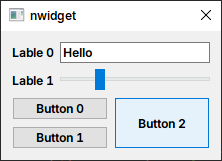
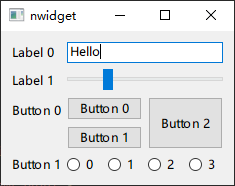
docs: update document

diff --git a/README.md b/README.md
@@ -1,6 +1,6 @@
 # nwidget2
 
-nwidget is a `header-only` library that provides `property binding`, `animation`, `declarative syntax` extension for QWidget.
+nwidget is a `header-only` library that provides `property binding`, `declarative syntax` `animation` extension for QWidget. It is designed based on the principle of low Invasive and can be introduced without modifying existing code.
 
 [How to use](./docs/How-to-use.md)
 
@@ -67,15 +67,19 @@ cond(checkBox.checked(), 300, 50).bindTo(Behavior::animated(rect.minimumWidth())
 
 using namespace nwidget;
 
-QLayout* layout = FormLayout{
-    {"Label 0", LineEdit().text("Hello")},
-    {"Label 1", Slider(Qt::Horizontal).range(0, 100).value(25)},
-    {GridLayout{
+QLayout* layout = FormLayout {
+    {"Label 0" , LineEdit().text("Hello")},
+    {"Label 1" , Slider(Qt::Horizontal).range(0, 100).value(25)},
+    {"Button 0", GridLayout{
         {0, 0,       PushButton("Button 0")},
         {1, 0,       PushButton("Button 1")},
         {0, 1, 2, 1, PushButton("Button 2").sizePolicy(QSizePolicy::Preferred, QSizePolicy::Expanding),
         },
-    }}};
+    }},
+    {"Button 1", HBoxLayout {
+        ForEach(4, [](int i){ return RadioButton().text(QString::number(i)); })
+    }},
+};
 ```
 
 ![](./docs/imgs/declarative_ui_syntax.png)
